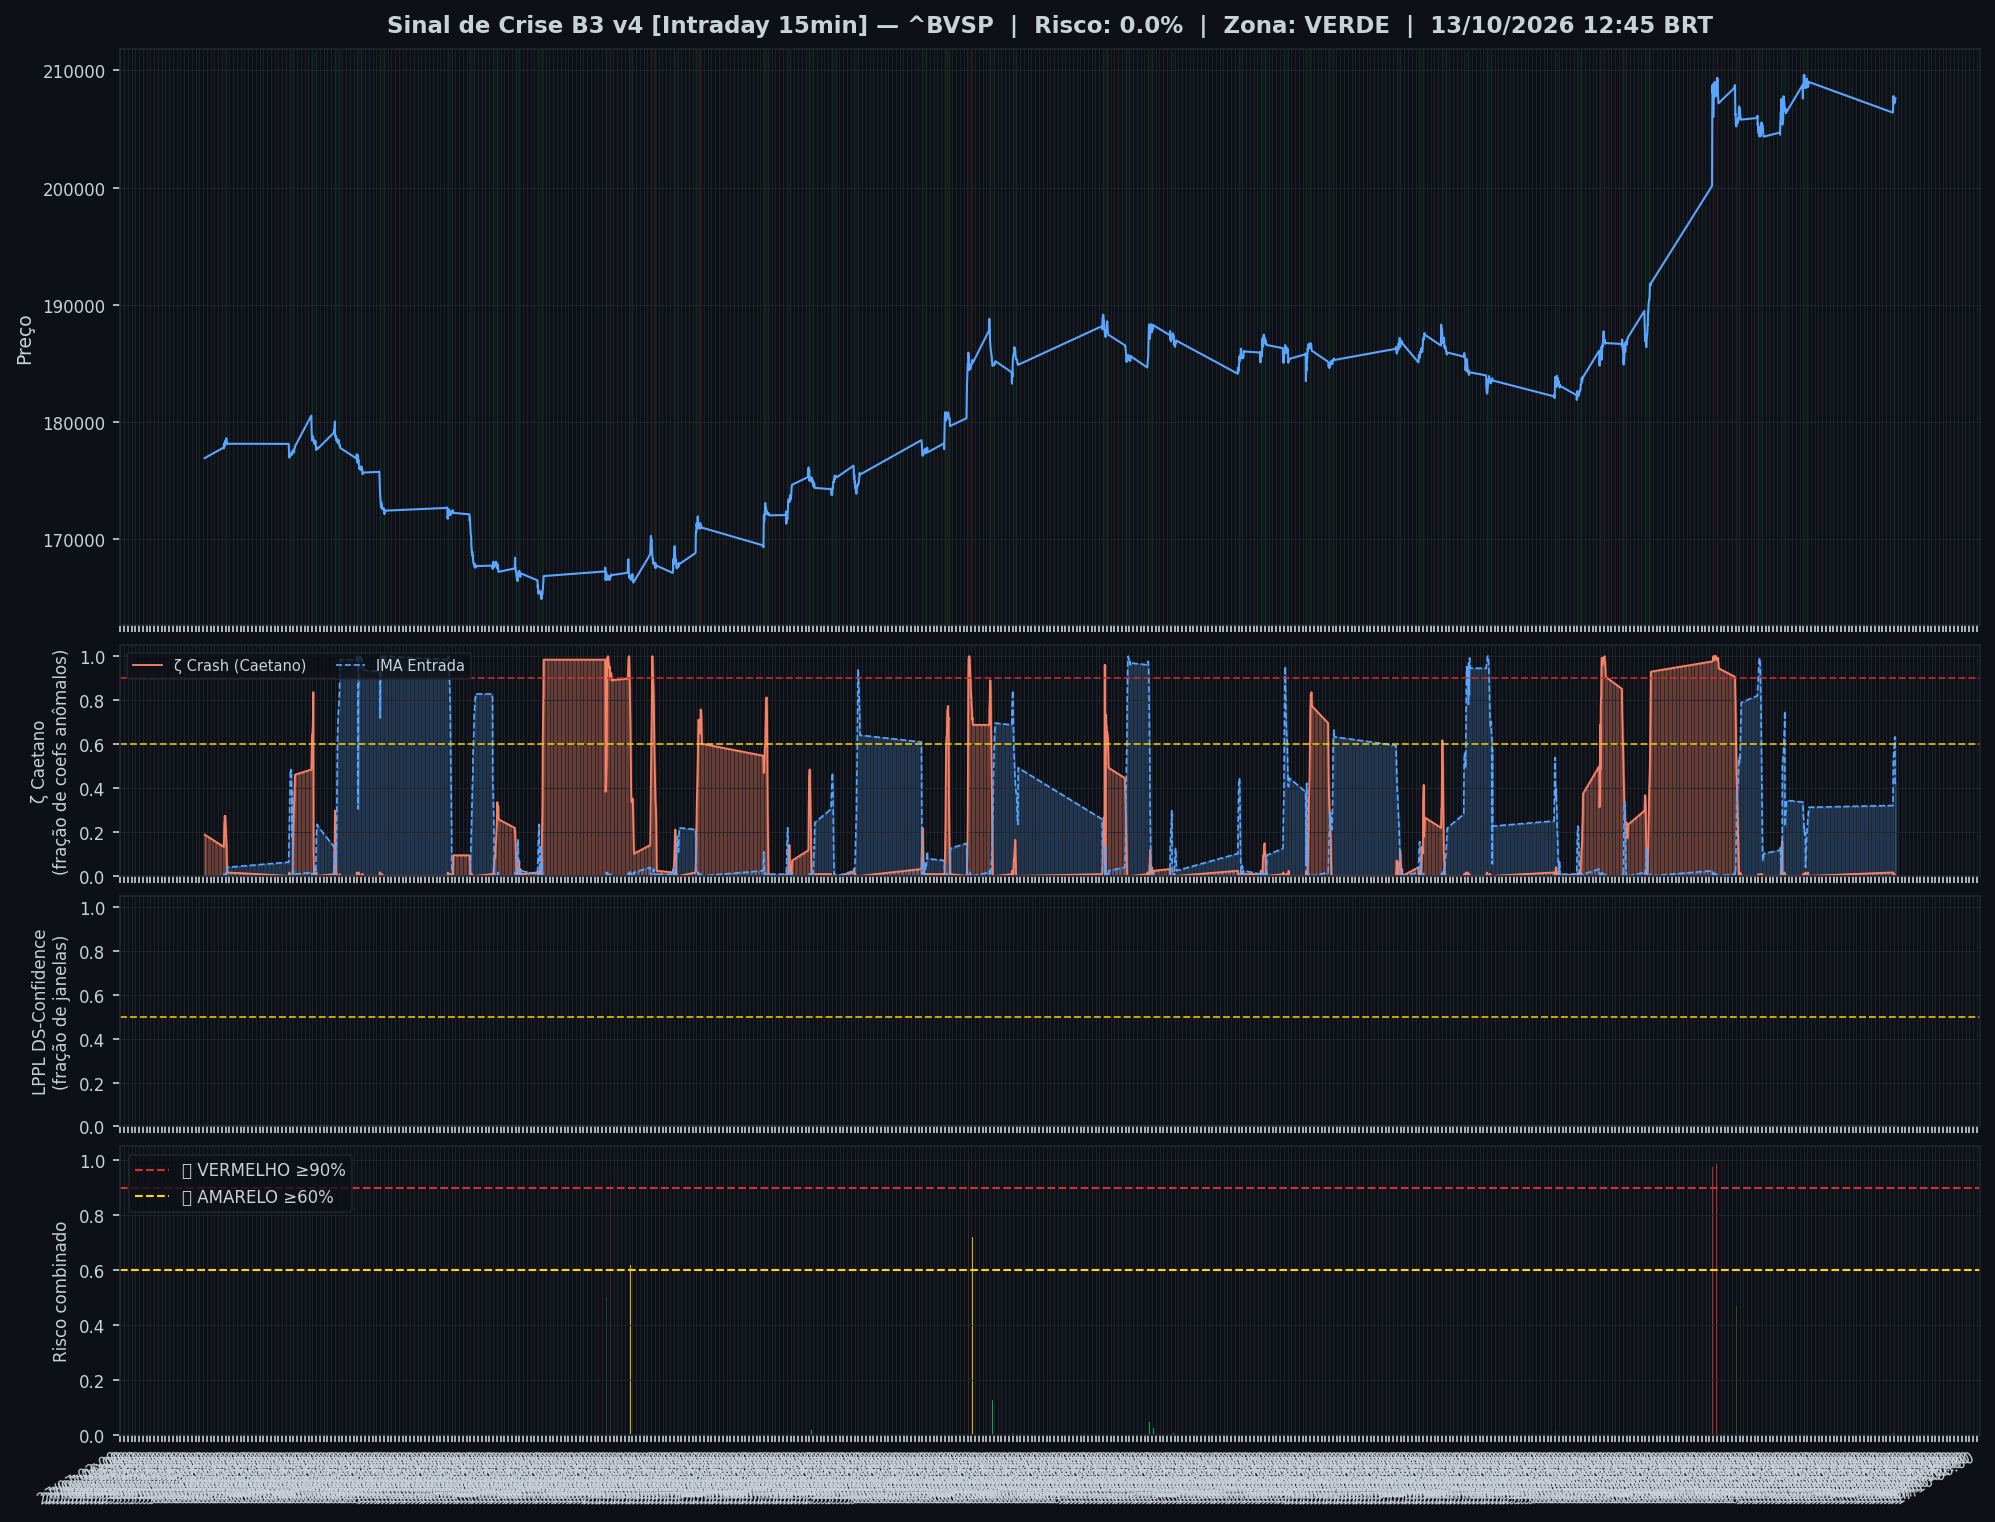
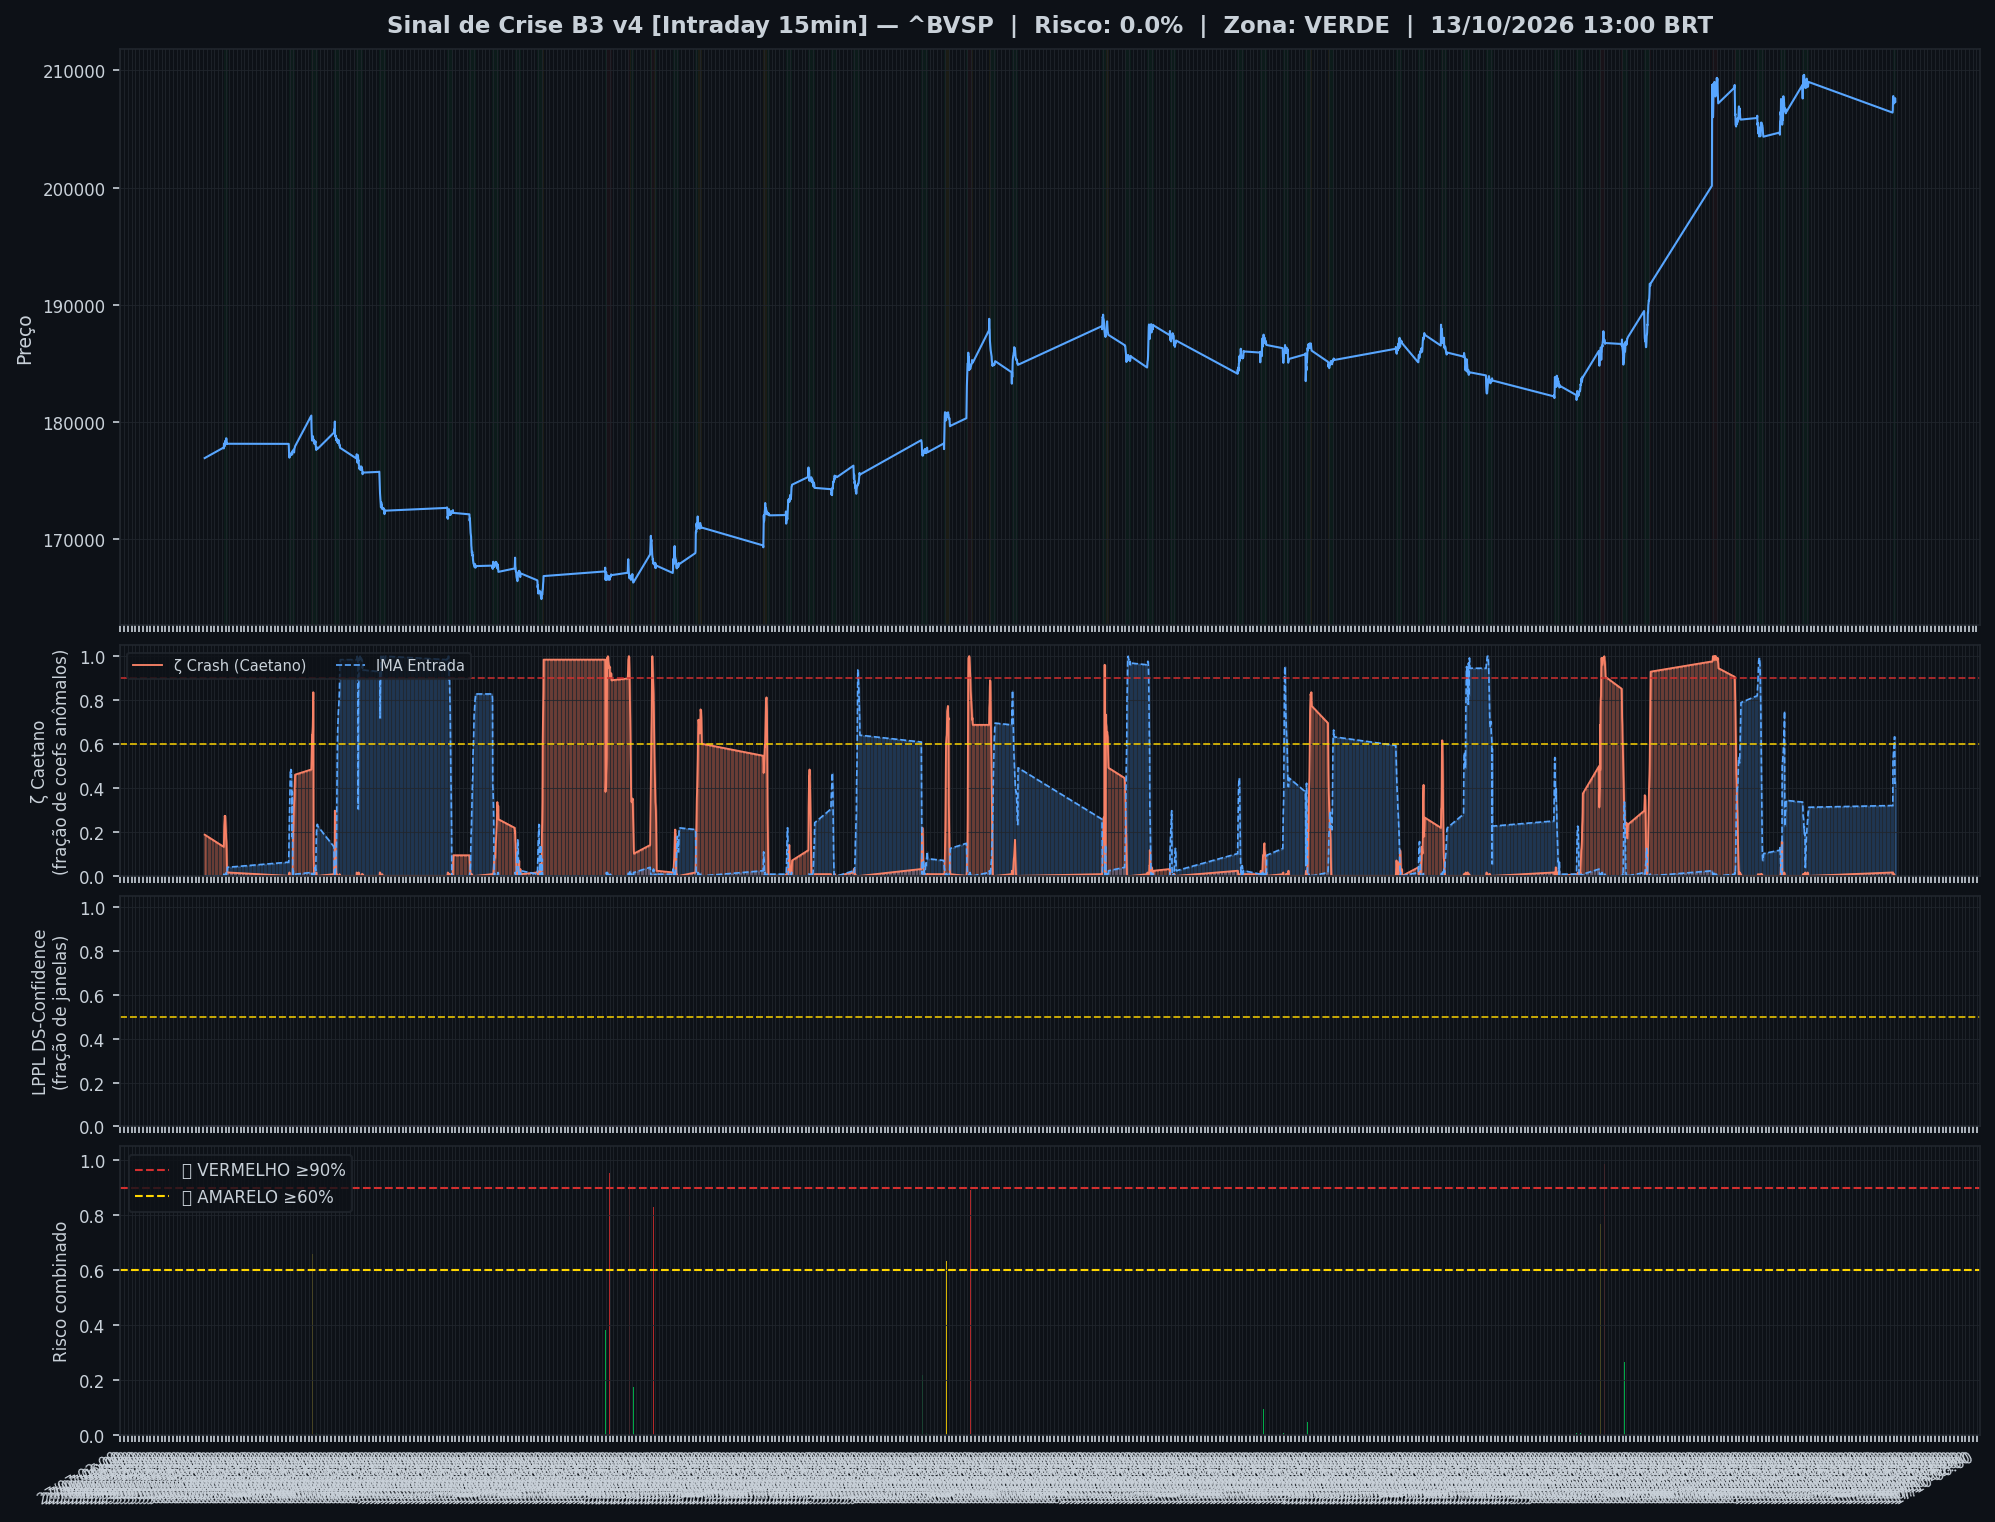
🤖 Auto: Sinal 13/10/2026 13:45

diff --git a/content/intraday/2026-10-13.md b/content/intraday/2026-10-13.md
@@ -1,5 +1,5 @@
 ---
-title: "🟢 Intraday 13/10/2026 12:45 BRT — VERDE"
+title: "🟢 Intraday 13/10/2026 13:00 BRT — VERDE"
 date: 2026-10-13
 tags: [intraday]
 ---
@@ -14,7 +14,7 @@ tags: [intraday]
 | 🔴 ζ Crash — severidade da queda em curso | **0%** |
 | 🔵 ζ Entrada — estrutura de fundo | 42% |
 | 🫧 LPPL DS-Confidence | 0% |
-| 📊 Ibovespa | 207.630 pts |
+| 📊 Ibovespa | 207.345 pts |
 
 ![Gráfico do sinal](../graficos/sinal_intraday.png)
 
@@ -22,6 +22,7 @@ tags: [intraday]
 
 | Data | Zona | Risco | IMA Crash | Entrada | LPPL |
 |---|---|---|---|---|---|
+| 2026-10-13 13:00 | 🟢 VERDE | **0%** | 0% | 42% | 0% |
 | 2026-10-13 12:45 | 🟢 VERDE | **0%** | 0% | 42% | 0% |
 | 2026-10-13 12:30 | 🟢 VERDE | **0%** | 0% | 43% | 0% |
 | 2026-10-13 12:15 | 🟢 VERDE | **0%** | 0% | 42% | 0% |
@@ -51,7 +52,6 @@ tags: [intraday]
 | 2026-10-09 13:15 | 🟢 VERDE | **0%** | 0% | 7% | 0% |
 | 2026-10-09 13:00 | 🟢 VERDE | **2%** | 2% | 4% | 0% |
 | 2026-10-09 12:45 | 🟢 VERDE | **1%** | 1% | 20% | 0% |
-| 2026-10-09 12:30 | 🟢 VERDE | **0%** | 0% | 18% | 0% |
 
 ## Monitor Multi-Ativo
 
@@ -59,34 +59,34 @@ tags: [intraday]
 
 | Zona | Ativo | Setor | IMA Crash | IMA Entrada |
 |---|---|---|---|---|
-| 🟢 | **USD/BRL** | Câmbio | 7.8% | 4.7% |
-| 🟢 | **VIBRA** | Energia | 6.2% | 8.6% |
-| 🟢 | **ITAUUNIBANCO** | Financeiro | 5.5% | 10.2% |
+| 🟢 | **USD/BRL** | Câmbio | 43.0% | 3.1% |
+| 🟢 | **ITAUUNIBANCO** | Financeiro | 7.8% | 4.7% |
+| 🟢 | **PETROBRAS** | Petróleo | 7.8% | 4.7% |
+| 🟢 | **PETROBRAS** | Petróleo | 7.8% | 4.7% |
+| 🟢 | **AXIA ENERGIA** | Energia | 7.8% | 4.7% |
+| 🟢 | **SABESP** | Saneamento | 7.8% | 4.7% |
+| 🟢 | **B3** | Financeiro | 7.8% | 4.7% |
+| 🟢 | **BRADESCO** | Financeiro | 7.8% | 4.7% |
+| 🟢 | **ITAUSA** | Financeiro | 7.8% | 4.7% |
+| 🟢 | **BTGP BANCO** | Financeiro | 7.8% | 4.7% |
+| 🟢 | **WEG** | Industrial | 7.8% | 4.7% |
+| 🟢 | **BRASIL** | Financeiro | 7.8% | 4.7% |
+| 🟢 | **AMBEV S/A** | Consumo | 7.8% | 4.7% |
+| 🟢 | **EMBRAER** | Outros | 7.8% | 4.7% |
+| 🟢 | **EQUATORIAL** | Energia | 7.8% | 4.7% |
+| 🟢 | **ENEVA** | Energia | 7.8% | 4.7% |
+| 🟢 | **LOCALIZA** | Aluguel | 7.8% | 4.7% |
+| 🟢 | **COPEL** | Energia | 7.8% | 4.7% |
+| 🟢 | **PRIO** | Petróleo | 7.8% | 4.7% |
+| 🟢 | **REDE D OR** | Saúde | 7.8% | 4.7% |
+| 🟢 | **VIBRA** | Energia | 7.8% | 4.7% |
+| 🟢 | **ULTRAPAR** | Outros | 7.8% | 4.7% |
+| 🟢 | **GERDAU** | Siderurgia | 7.8% | 4.7% |
 | 🟢 | **VALE** | Mineração | 5.5% | 10.2% |
-| 🟢 | **PETROBRAS** | Petróleo | 5.5% | 10.2% |
-| 🟢 | **PETROBRAS** | Petróleo | 5.5% | 10.2% |
-| 🟢 | **AXIA ENERGIA** | Energia | 5.5% | 10.2% |
-| 🟢 | **SABESP** | Saneamento | 5.5% | 10.2% |
-| 🟢 | **B3** | Financeiro | 5.5% | 10.2% |
-| 🟢 | **BRADESCO** | Financeiro | 5.5% | 10.2% |
-| 🟢 | **ITAUSA** | Financeiro | 5.5% | 10.2% |
-| 🟢 | **BTGP BANCO** | Financeiro | 5.5% | 10.2% |
-| 🟢 | **WEG** | Industrial | 5.5% | 10.2% |
-| 🟢 | **BRASIL** | Financeiro | 5.5% | 10.2% |
-| 🟢 | **AMBEV S/A** | Consumo | 5.5% | 10.2% |
-| 🟢 | **EMBRAER** | Outros | 5.5% | 10.2% |
-| 🟢 | **EQUATORIAL** | Energia | 5.5% | 10.2% |
-| 🟢 | **ENEVA** | Energia | 5.5% | 10.2% |
-| 🟢 | **LOCALIZA** | Aluguel | 5.5% | 10.2% |
-| 🟢 | **COPEL** | Energia | 5.5% | 10.2% |
-| 🟢 | **PRIO** | Petróleo | 5.5% | 10.2% |
-| 🟢 | **REDE D OR** | Saúde | 5.5% | 10.2% |
-| 🟢 | **ULTRAPAR** | Outros | 5.5% | 10.2% |
-| 🟢 | **GERDAU** | Siderurgia | 5.5% | 10.2% |
 
 ![Monitor multi-ativo](../graficos/multi_intraday.png)
 
-*Página atualizada em 13/10/2026 13:30 BRT (leitura da barra de 2026-10-13 12:45 BRT).*
+*Página atualizada em 13/10/2026 13:45 BRT (leitura da barra de 2026-10-13 13:00 BRT).*
 
 > [!info]- Como interpretar (clique para expandir)
 > - **ζ Crash**: fração dos coeficientes wavelet acima do corte (Caetano & Yoneyama 2009). Escala absoluta: ζ=0,90 = 90% dos coeficientes anômalos — historicamente, quedas com ζ≥0,90 foram mais fundas e mais longas. **Mede a severidade do movimento em curso, não prevê o início da queda.**

diff --git a/content/index.md b/content/index.md
@@ -8,7 +8,7 @@ tags: [home]
 
 Monitoramento diário e intraday do Ibovespa — **IMA Wavelet** (Prof. Marco Antonio Leonel Caetano, ITA/INSPER) + **LPPL DS-Confidence** (Prof. Didier Sornette, ETH-Zurich).
 
-*Última atualização: 13/10/2026 13:30 BRT · ^BVSP · Intraday 15min · v4*
+*Última atualização: 13/10/2026 13:45 BRT · ^BVSP · Intraday 15min · v4*
 
 > [!success] 🟢 **VERDE** — Risco 0% · ＝ +0 p.p. vs leitura anterior
 > `░░░░░░░░░░░░░░░░░░░░`
@@ -20,7 +20,7 @@ Monitoramento diário e intraday do Ibovespa — **IMA Wavelet** (Prof. Marco An
 | 🔴 ζ Crash — severidade da queda em curso | **0%** |
 | 🔵 ζ Entrada — estrutura de fundo | 42% |
 | 🫧 LPPL DS-Confidence | 0% |
-| 📊 Ibovespa | 207.630 pts |
+| 📊 Ibovespa | 207.345 pts |
 
 **Multi-ativo:** 0% em tensão (0🔴 0🟡 de 24 ativos)
 

diff --git a/content/historico.md b/content/historico.md
@@ -7,6 +7,7 @@ tags: [historico]
 
 | Data | Modo | Zona | Risco | IMA | LPPL |
 |---|---|---|---|---|---|
+| 2026-10-13 13:00 | intraday | 🟢 VERDE | 0% | 0% | 0% |
 | 2026-10-13 12:45 | intraday | 🟢 VERDE | 0% | 0% | 0% |
 | 2026-10-13 12:30 | intraday | 🟢 VERDE | 0% | 0% | 0% |
 | 2026-10-13 12:15 | intraday | 🟢 VERDE | 0% | 0% | 0% |
